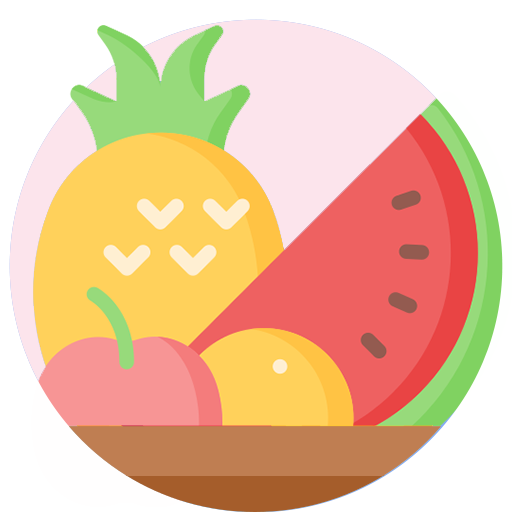
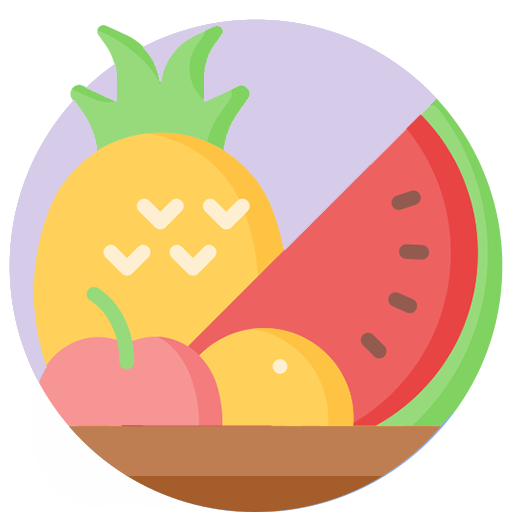
css, img - 컬러 수정

Changed region(s): [[0.2812, 0.0312, 0.8438, 0.5], [0.0, 0.1875, 0.1875, 0.75], [0.1562, 0.125, 0.25, 0.2188]]

diff --git a/style.css b/style.css
@@ -9,7 +9,8 @@
   --color-green: #66bb6a;
   --color-red: #f44336;
   --color-light-yellow: #fff3e0;
-  --color-pink: #fd7f84;
+  --color-pink: #ffcdd2;
+  --color-light-pink: #ffebee;
   --color-light-grey: #dfdfdf;
 
   /* size */
@@ -31,7 +32,7 @@
 
 body {
   height: 100vh;
-  background-color: var(--color-light-yellow);
+  background-color: var(--color-light-pink);
   display: flex;
   flex-direction: column;
   justify-content: center;
@@ -101,7 +102,7 @@ body {
   list-style: none;
   padding-left: 0;
   overflow-y: scroll;
-  border: 5px solid #ffe0b2;
+  border: 5px solid var(--color-pink);
   padding: var(--base-space);
 }
 .store .item {
